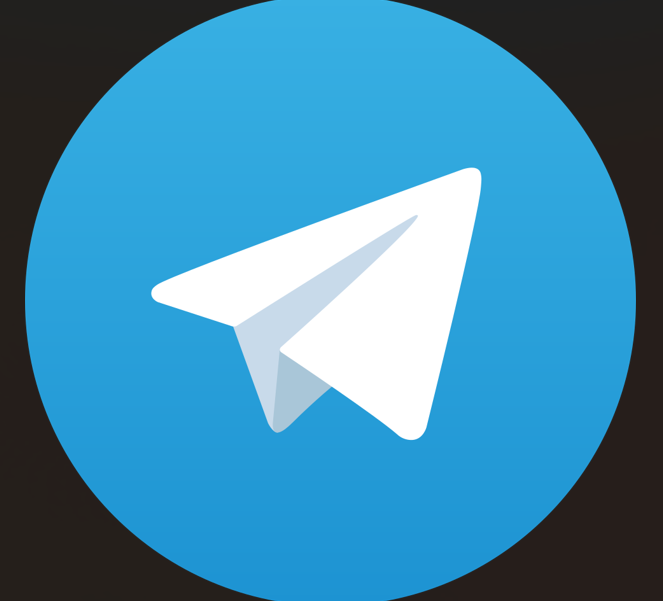
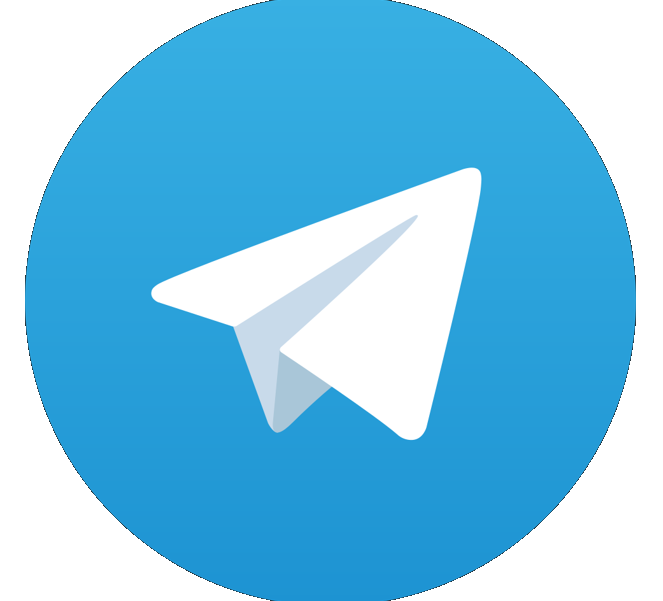
updated critical permission issue

Changed region(s): [[0.6033, 0.0, 1.0, 1.0], [0.0, 0.0, 0.4223, 1.0]]

diff --git a/resources/crm/App.vue b/resources/crm/App.vue
@@ -55,13 +55,14 @@ const loadMe = async () => {
   }
 };
 
-// Login only sets localStorage; `me` is loaded here. Without this, SPA
-// navigation from /login to /dashboard left `me` null (stuck on “sign in”).
-// Skip refetch when `me` is already set (normal route changes under the shell).
+// Load /auth/me when entering the authenticated shell, or when `me` is still empty.
+// Important: do not skip load when `me` is already set but the user just signed in
+// as a different account (token replaced on /login while stale `me` stayed in memory),
+// which hid Staff/Webmaster for admins and broke permission UI.
 watch(
-  () => route.fullPath,
-  () => {
-    if (!showShell.value) {
+  showShell,
+  (shell, prevShell) => {
+    if (!shell) {
       navLoading.value = false;
       return;
     }
@@ -70,10 +71,10 @@ watch(
       navLoading.value = false;
       return;
     }
-    if (me.value) {
-      return;
+    const enteredShellFromPublic = prevShell === false;
+    if (me.value === null || enteredShellFromPublic) {
+      loadMe();
     }
-    loadMe();
   },
   { immediate: true },
 );

diff --git a/resources/crm/components/clients/ClientAccountChannelIcons.vue b/resources/crm/components/clients/ClientAccountChannelIcons.vue
@@ -35,16 +35,17 @@ defineProps({
     </span>
     <span
       v-if="telegramHandle"
-      class="inline-flex shrink-0 items-center"
+      class="inline-flex shrink-0 items-center justify-center bg-transparent"
       :title="telegramTitle"
     >
       <img
         :src="telegramIconUrl"
         alt=""
-        :class="[sizeClass, 'object-contain']"
+        :class="[sizeClass, 'object-contain bg-transparent']"
         width="20"
         height="20"
         decoding="async"
+        draggable="false"
       />
     </span>
     <span
